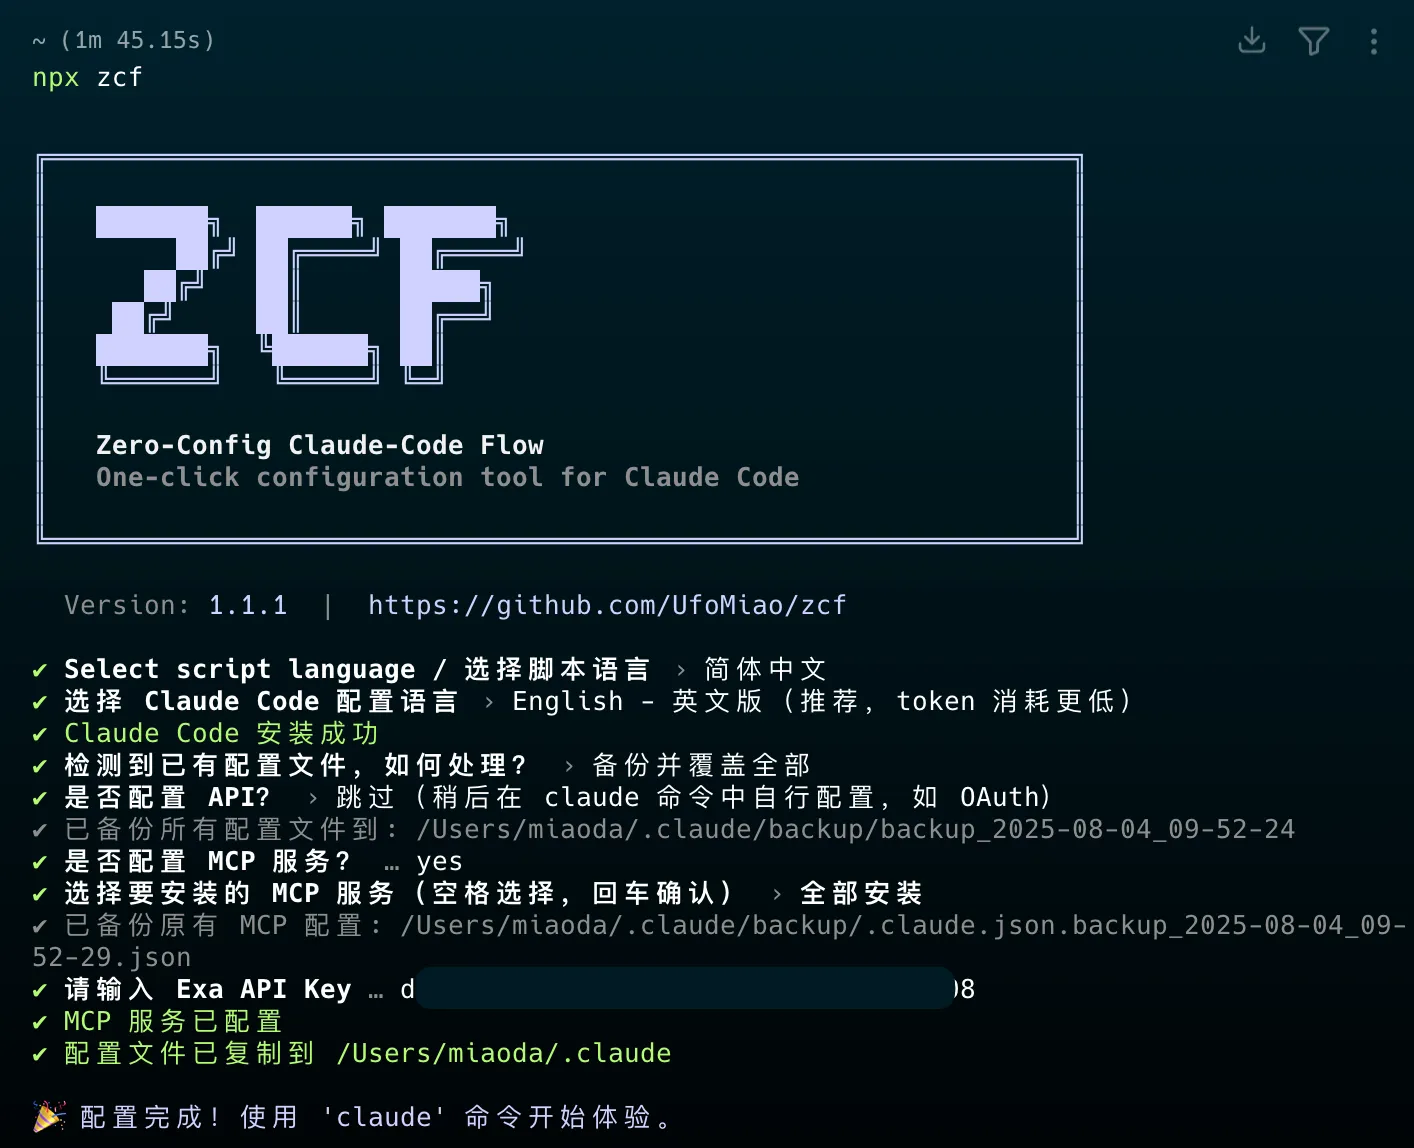
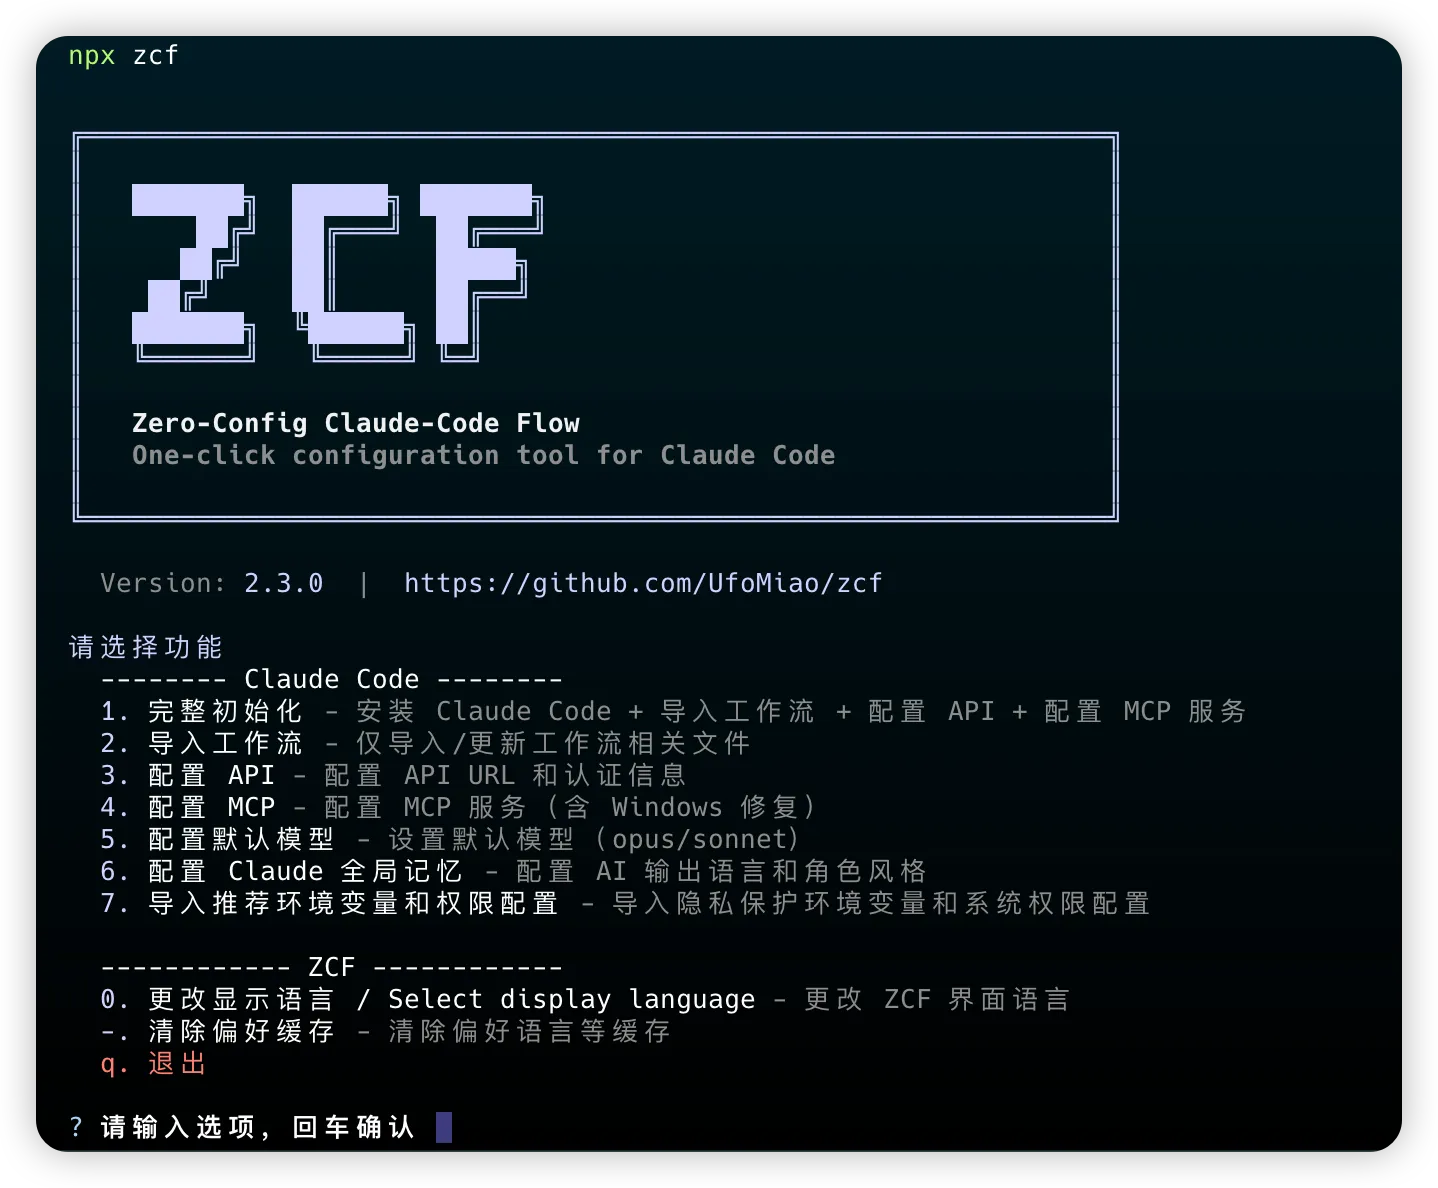
feat(config): add environment variables and permissions import feature

Changed region(s): [[0.0, 0.0, 1.0, 1.0]]

diff --git a/src/constants.ts b/src/constants.ts
@@ -114,6 +114,7 @@ export const I18N = {
       configureMcp: '配置 MCP',
       configureModel: '配置默认模型',
       configureAiMemory: '配置 Claude 全局记忆',
+      configureEnvPermission: '导入推荐环境变量和权限配置',
       clearCache: '清除偏好缓存',
       changeLanguage: '更改显示语言 / Select display language',
       exit: '退出',
@@ -125,6 +126,7 @@ export const I18N = {
       configureMcp: '配置 MCP 服务（含 Windows 修复）',
       configureModel: '设置默认模型（opus/sonnet）',
       configureAiMemory: '配置 AI 输出语言和角色风格',
+      configureEnvPermission: '导入隐私保护环境变量和系统权限配置',
       clearCache: '清除偏好语言等缓存',
       changeLanguage: '更改 ZCF 界面语言',
     },
@@ -197,6 +199,17 @@ export const I18N = {
     forceOverwrite: '强制覆盖现有配置',
     initClaudeConfig: '初始化 Claude Code 配置',
     updatePromptsOnly: '仅更新 Claude Code 提示',
+    // Environment variables and permissions
+    selectEnvPermissionOption: '请选择配置选项',
+    importRecommendedEnv: '导入 ZCF 推荐环境变量',
+    importRecommendedEnvDesc: '隐私保护变量等',
+    importRecommendedPermissions: '导入 ZCF 推荐权限配置',
+    importRecommendedPermissionsDesc: '几乎全部权限，减少频繁请求权限，危险操作由规则限制',
+    openSettingsJson: '打开 settings.json 手动配置',
+    openSettingsJsonDesc: '高级用户自定义',
+    envImportSuccess: '环境变量已导入',
+    permissionsImportSuccess: '权限配置已导入',
+    openingSettingsJson: '正在打开 settings.json...',
     // Misc
     spaceToSelectReturn: '- 空格选择，回车提交',
   },
@@ -290,6 +303,7 @@ export const I18N = {
       configureMcp: 'Configure MCP',
       configureModel: 'Configure default model',
       configureAiMemory: 'Configure Claude global memory',
+      configureEnvPermission: 'Import recommended environment variables and permissions',
       clearCache: 'Clear preference cache',
       changeLanguage: 'Select display language / 更改显示语言',
       exit: 'Exit',
@@ -301,6 +315,7 @@ export const I18N = {
       configureMcp: 'Configure MCP services (includes Windows fix)',
       configureModel: 'Set default model (opus/sonnet)',
       configureAiMemory: 'Configure AI output language and personality',
+      configureEnvPermission: 'Import privacy protection environment variables and system permissions',
       clearCache: 'Clear preference language and other caches',
       changeLanguage: 'Change ZCF interface language',
     },
@@ -373,6 +388,18 @@ export const I18N = {
     forceOverwrite: 'Force overwrite existing configuration',
     initClaudeConfig: 'Initialize Claude Code configuration',
     updatePromptsOnly: 'Update Claude Code prompts only',
+    // Environment variables and permissions
+    selectEnvPermissionOption: 'Select configuration option',
+    importRecommendedEnv: 'Import ZCF recommended environment variables',
+    importRecommendedEnvDesc: 'Privacy protection variables, etc.',
+    importRecommendedPermissions: 'Import ZCF recommended permissions',
+    importRecommendedPermissionsDesc:
+      'Almost all permissions, reduce frequent permission requests, dangerous ops limited by rules',
+    openSettingsJson: 'Open settings.json for manual configuration',
+    openSettingsJsonDesc: 'Advanced user customization',
+    envImportSuccess: 'Environment variables imported',
+    permissionsImportSuccess: 'Permissions imported',
+    openingSettingsJson: 'Opening settings.json...',
     // Misc
     spaceToSelectReturn: '- Space to select. Return to submit',
   },

diff --git a/src/utils/simple-config.ts b/src/utils/simple-config.ts
@@ -1,0 +1,101 @@
+import { readFileSync, existsSync, writeFileSync } from 'node:fs';
+import { dirname, join } from 'pathe';
+import { fileURLToPath } from 'node:url';
+import { SETTINGS_FILE, CLAUDE_DIR } from '../constants.js';
+import { ensureDir } from './fs-operations.js';
+import { exec } from 'tinyexec';
+import { getPlatform } from './platform.js';
+
+const __dirname = dirname(fileURLToPath(import.meta.url));
+
+// Get template settings
+function getTemplateSettings(): any {
+  const templatePath = join(__dirname, '../../templates/settings.json');
+  const content = readFileSync(templatePath, 'utf-8');
+  return JSON.parse(content);
+}
+
+// Load current settings
+function loadCurrentSettings(): any {
+  if (!existsSync(SETTINGS_FILE)) {
+    return {};
+  }
+
+  try {
+    const content = readFileSync(SETTINGS_FILE, 'utf-8');
+    return JSON.parse(content);
+  } catch {
+    return {};
+  }
+}
+
+// Save settings
+function saveSettings(settings: any): void {
+  ensureDir(CLAUDE_DIR);
+  writeFileSync(SETTINGS_FILE, JSON.stringify(settings, null, 2));
+}
+
+// Import recommended environment variables
+export async function importRecommendedEnv(): Promise<void> {
+  const templateSettings = getTemplateSettings();
+  const currentSettings = loadCurrentSettings();
+
+  // Merge env variables
+  currentSettings.env = {
+    ...currentSettings.env,
+    ...templateSettings.env,
+  };
+
+  saveSettings(currentSettings);
+}
+
+// Import recommended permissions
+export async function importRecommendedPermissions(): Promise<void> {
+  const templateSettings = getTemplateSettings();
+  const currentSettings = loadCurrentSettings();
+
+  // Merge permissions
+  currentSettings.permissions = templateSettings.permissions;
+
+  saveSettings(currentSettings);
+}
+
+// Open settings.json in system editor
+export async function openSettingsJson(): Promise<void> {
+  ensureDir(CLAUDE_DIR);
+
+  // Ensure file exists
+  if (!existsSync(SETTINGS_FILE)) {
+    saveSettings({});
+  }
+
+  const platform = getPlatform();
+  let command: string;
+
+  switch (platform) {
+    case 'macos':
+      command = 'open';
+      break;
+    case 'windows':
+      command = 'start';
+      break;
+    default:
+      // Linux - try common editors
+      command = 'xdg-open';
+  }
+
+  try {
+    await exec(command, [SETTINGS_FILE]);
+  } catch (error) {
+    // Fallback to code/vim/nano
+    try {
+      await exec('code', [SETTINGS_FILE]);
+    } catch {
+      try {
+        await exec('vim', [SETTINGS_FILE]);
+      } catch {
+        await exec('nano', [SETTINGS_FILE]);
+      }
+    }
+  }
+}

diff --git a/src/utils/features.ts b/src/utils/features.ts
@@ -25,6 +25,7 @@ import { validateApiKey, formatApiKeyDisplay } from './validator';
 import { configureAiPersonality } from './ai-personality';
 import { modifyApiConfigPartially } from './config-operations';
 import { selectMcpServices } from './mcp-selector';
+import { importRecommendedEnv, importRecommendedPermissions, openSettingsJson } from './simple-config';
 
 // Helper function to handle cancelled operations
 function handleCancellation(scriptLang: SupportedLang): void {
@@ -329,4 +330,53 @@ export async function changeScriptLanguageFeature(currentLang: SupportedLang): P
   console.log(ansis.green(`✔ ${I18N[lang].languageChanged || 'Language changed'}`));
   
   return lang;
+}
+
+// Configure environment variables and permissions
+export async function configureEnvPermissionFeature(scriptLang: SupportedLang) {
+  const i18n = I18N[scriptLang];
+  
+  const { choice } = await inquirer.prompt<{ choice: string }>({
+    type: 'list',
+    name: 'choice',
+    message: i18n.selectEnvPermissionOption,
+    choices: [
+      {
+        name: `${i18n.importRecommendedEnv} ${ansis.gray('- ' + i18n.importRecommendedEnvDesc)}`,
+        value: 'env'
+      },
+      {
+        name: `${i18n.importRecommendedPermissions} ${ansis.gray('- ' + i18n.importRecommendedPermissionsDesc)}`,
+        value: 'permissions'
+      },
+      {
+        name: `${i18n.openSettingsJson} ${ansis.gray('- ' + i18n.openSettingsJsonDesc)}`,
+        value: 'open'
+      }
+    ]
+  });
+  
+  if (!choice) {
+    handleCancellation(scriptLang);
+    return;
+  }
+  
+  try {
+    switch (choice) {
+      case 'env':
+        await importRecommendedEnv();
+        console.log(ansis.green(`✅ ${i18n.envImportSuccess}`));
+        break;
+      case 'permissions':
+        await importRecommendedPermissions();
+        console.log(ansis.green(`✅ ${i18n.permissionsImportSuccess}`));
+        break;
+      case 'open':
+        console.log(ansis.cyan(i18n.openingSettingsJson));
+        await openSettingsJson();
+        break;
+    }
+  } catch (error: any) {
+    console.error(ansis.red(`${i18n.error}: ${error.message}`));
+  }
 }

diff --git a/src/commands/menu.ts b/src/commands/menu.ts
@@ -7,6 +7,7 @@ import {
   configureMcpFeature,
   configureDefaultModelFeature,
   configureAiMemoryFeature,
+  configureEnvPermissionFeature,
   clearZcfCacheFeature,
   changeScriptLanguageFeature,
 } from '../utils/features';
@@ -61,6 +62,11 @@ export async function showMainMenu() {
           '- ' + i18n.menuDescriptions.configureAiMemory
         )}`
       );
+      console.log(
+        `  ${ansis.cyan('7.')} ${i18n.menuOptions.configureEnvPermission} ${ansis.gray(
+          '- ' + i18n.menuDescriptions.configureEnvPermission
+        )}`
+      );
       console.log('');
       console.log('  ------------ ZCF ------------');
       console.log(
@@ -80,7 +86,7 @@ export async function showMainMenu() {
         name: 'choice',
         message: i18n.enterChoice || 'Enter your choice',
         validate: (value) => {
-          const valid = ['1', '2', '3', '4', '5', '6', '0', '-', 'q', 'Q'];
+          const valid = ['1', '2', '3', '4', '5', '6', '7', '0', '-', 'q', 'Q'];
           return valid.includes(value) || i18n.invalidChoice;
         },
       });
@@ -110,6 +116,9 @@ export async function showMainMenu() {
           break;
         case '6':
           await configureAiMemoryFeature(scriptLang);
+          break;
+        case '7':
+          await configureEnvPermissionFeature(scriptLang);
           break;
         case '-':
           await clearZcfCacheFeature(scriptLang);

diff --git a/src/index.ts b/src/index.ts
@@ -5,3 +5,4 @@ export { getPlatform, commandExists } from './utils/platform'
 export * from './utils/installer'
 export * from './utils/config'
 export * from './utils/mcp'
+export { importRecommendedEnv, importRecommendedPermissions, openSettingsJson } from './utils/simple-config'

diff --git a/.claude/plan/env-permission-config.md b/.claude/plan/env-permission-config.md
@@ -1,0 +1,44 @@
+# 环境变量和权限配置功能实施计划
+
+## 任务概述
+在 ZCF 菜单中增加第7个选项"导入推荐环境变量和权限配置"，包含三个子菜单选项：
+- 导入 ZCF 推荐环境变量：从模板导入隐私保护环境变量
+- 导入 ZCF 推荐权限配置：从模板导入推荐的权限配置
+- 打开 settings.json 手动配置：在系统编辑器中打开配置文件
+
+## 实际实施（简化版）
+
+### Step 1: 创建简化的配置导入功能
+- 文件：`src/utils/simple-config.ts`
+- 功能：
+  - importRecommendedEnv(): 导入模板中的环境变量
+  - importRecommendedPermissions(): 导入模板中的权限配置
+  - openSettingsJson(): 在系统编辑器中打开 settings.json
+
+### Step 2: 更新国际化文本
+- 文件：`src/constants.ts`
+- 添加菜单文本和描述：
+  - 主菜单："导入推荐环境变量和权限配置"
+  - 子菜单选项及描述
+
+### Step 3: 更新功能模块
+- 文件：`src/utils/features.ts`
+- 添加 configureEnvPermissionFeature 函数
+- 实现三个选项的处理逻辑
+
+### Step 4: 集成到菜单系统
+- 文件：`src/commands/menu.ts`
+- 添加选项7的处理
+
+## 功能特点
+- 一键导入，无需复杂配置
+- 自动合并现有配置
+- 支持打开编辑器手动配置
+- 跨平台支持（macOS、Windows、Linux）
+
+## 模板配置内容
+- 环境变量：
+  - DISABLE_TELEMETRY: "1"
+  - DISABLE_ERROR_REPORTING: "1"
+  - CLAUDE_CODE_DISABLE_NONESSENTIAL_TRAFFIC: "1"
+- 权限：几乎全部权限，危险操作由规则限制

diff --git a/README_EN.md b/README_EN.md
@@ -8,7 +8,7 @@
 
 > Zero-config, one-click setup for Claude Code with bilingual support, intelligent agent system and personalized AI assistant
 
-![Rendering](./src/assets/screenshot.webp)
+![Rendering](./src/assets/screenshot-en.webp)
 
 ## 🚀 Quick Start
 
